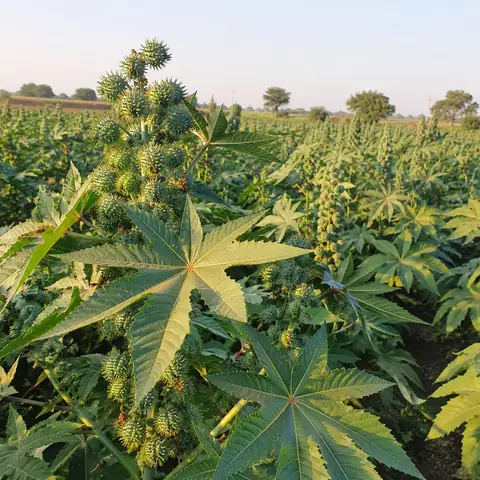
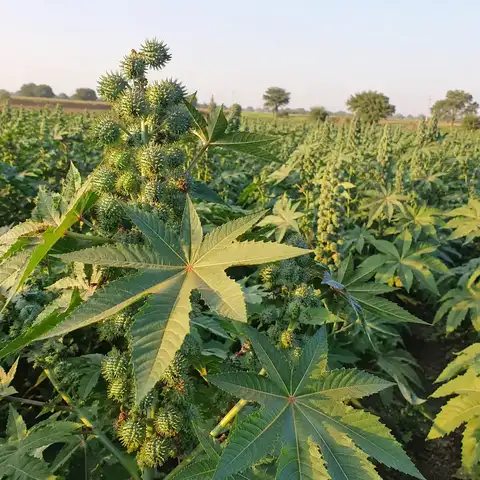
perf(homepage): Phase 10 Task 6 - mobile hero LCP optimization

diff --git a/index.html b/index.html
@@ -28,6 +28,8 @@
   <meta name="twitter:image" content="https://www.nagdevproducts.com/images/og-share.jpg">
   <link rel="preload" href="/fonts/inter-latin.woff2" as="font" type="font/woff2" crossorigin>
   <link rel="preload" href="/fonts/cormorant-garamond-latin.woff2" as="font" type="font/woff2" crossorigin>
+  <link rel="preload" as="image" href="/images/castor-field-480w.avif" type="image/avif" media="(max-width: 767px)" fetchpriority="high">
+  <link rel="preload" as="image" href="/images/castor-field-1600w.avif" type="image/avif" media="(min-width: 768px)">
   <link rel="stylesheet" href="/css/main.min.css?v=20261023c">
 
   <script type="application/ld+json">
@@ -557,8 +559,12 @@
 
     <div class="hero-image">
     <picture>
-      <source type="image/avif" srcset="/images/castor-field-480w.avif 480w, /images/castor-field-960w.avif 960w, /images/castor-field-1600w.avif 1600w" sizes="(max-width: 768px) 100vw, (max-width: 1200px) 50vw, 800px">
-      <source type="image/webp" srcset="/images/castor-field-480w.webp 480w, /images/castor-field-960w.webp 960w, /images/castor-field-1600w.webp 1600w" sizes="(max-width: 768px) 100vw, (max-width: 1200px) 50vw, 800px">
+      <!-- Mobile optimized sources (max-width: 767px) -->
+      <source media="(max-width: 767px)" type="image/avif" srcset="/images/castor-field-480w.avif">
+      <source media="(max-width: 767px)" type="image/webp" srcset="/images/castor-field-480w.webp">
+      <!-- Desktop & tablet responsive sources -->
+      <source type="image/avif" srcset="/images/castor-field-960w.avif 960w, /images/castor-field-1600w.avif 1600w" sizes="(max-width: 1200px) 50vw, 800px">
+      <source type="image/webp" srcset="/images/castor-field-960w.webp 960w, /images/castor-field-1600w.webp 1600w" sizes="(max-width: 1200px) 50vw, 800px">
       <img src="/images/castor-field.webp"
            alt="Castor crop field"
            width="1200" height="800"
